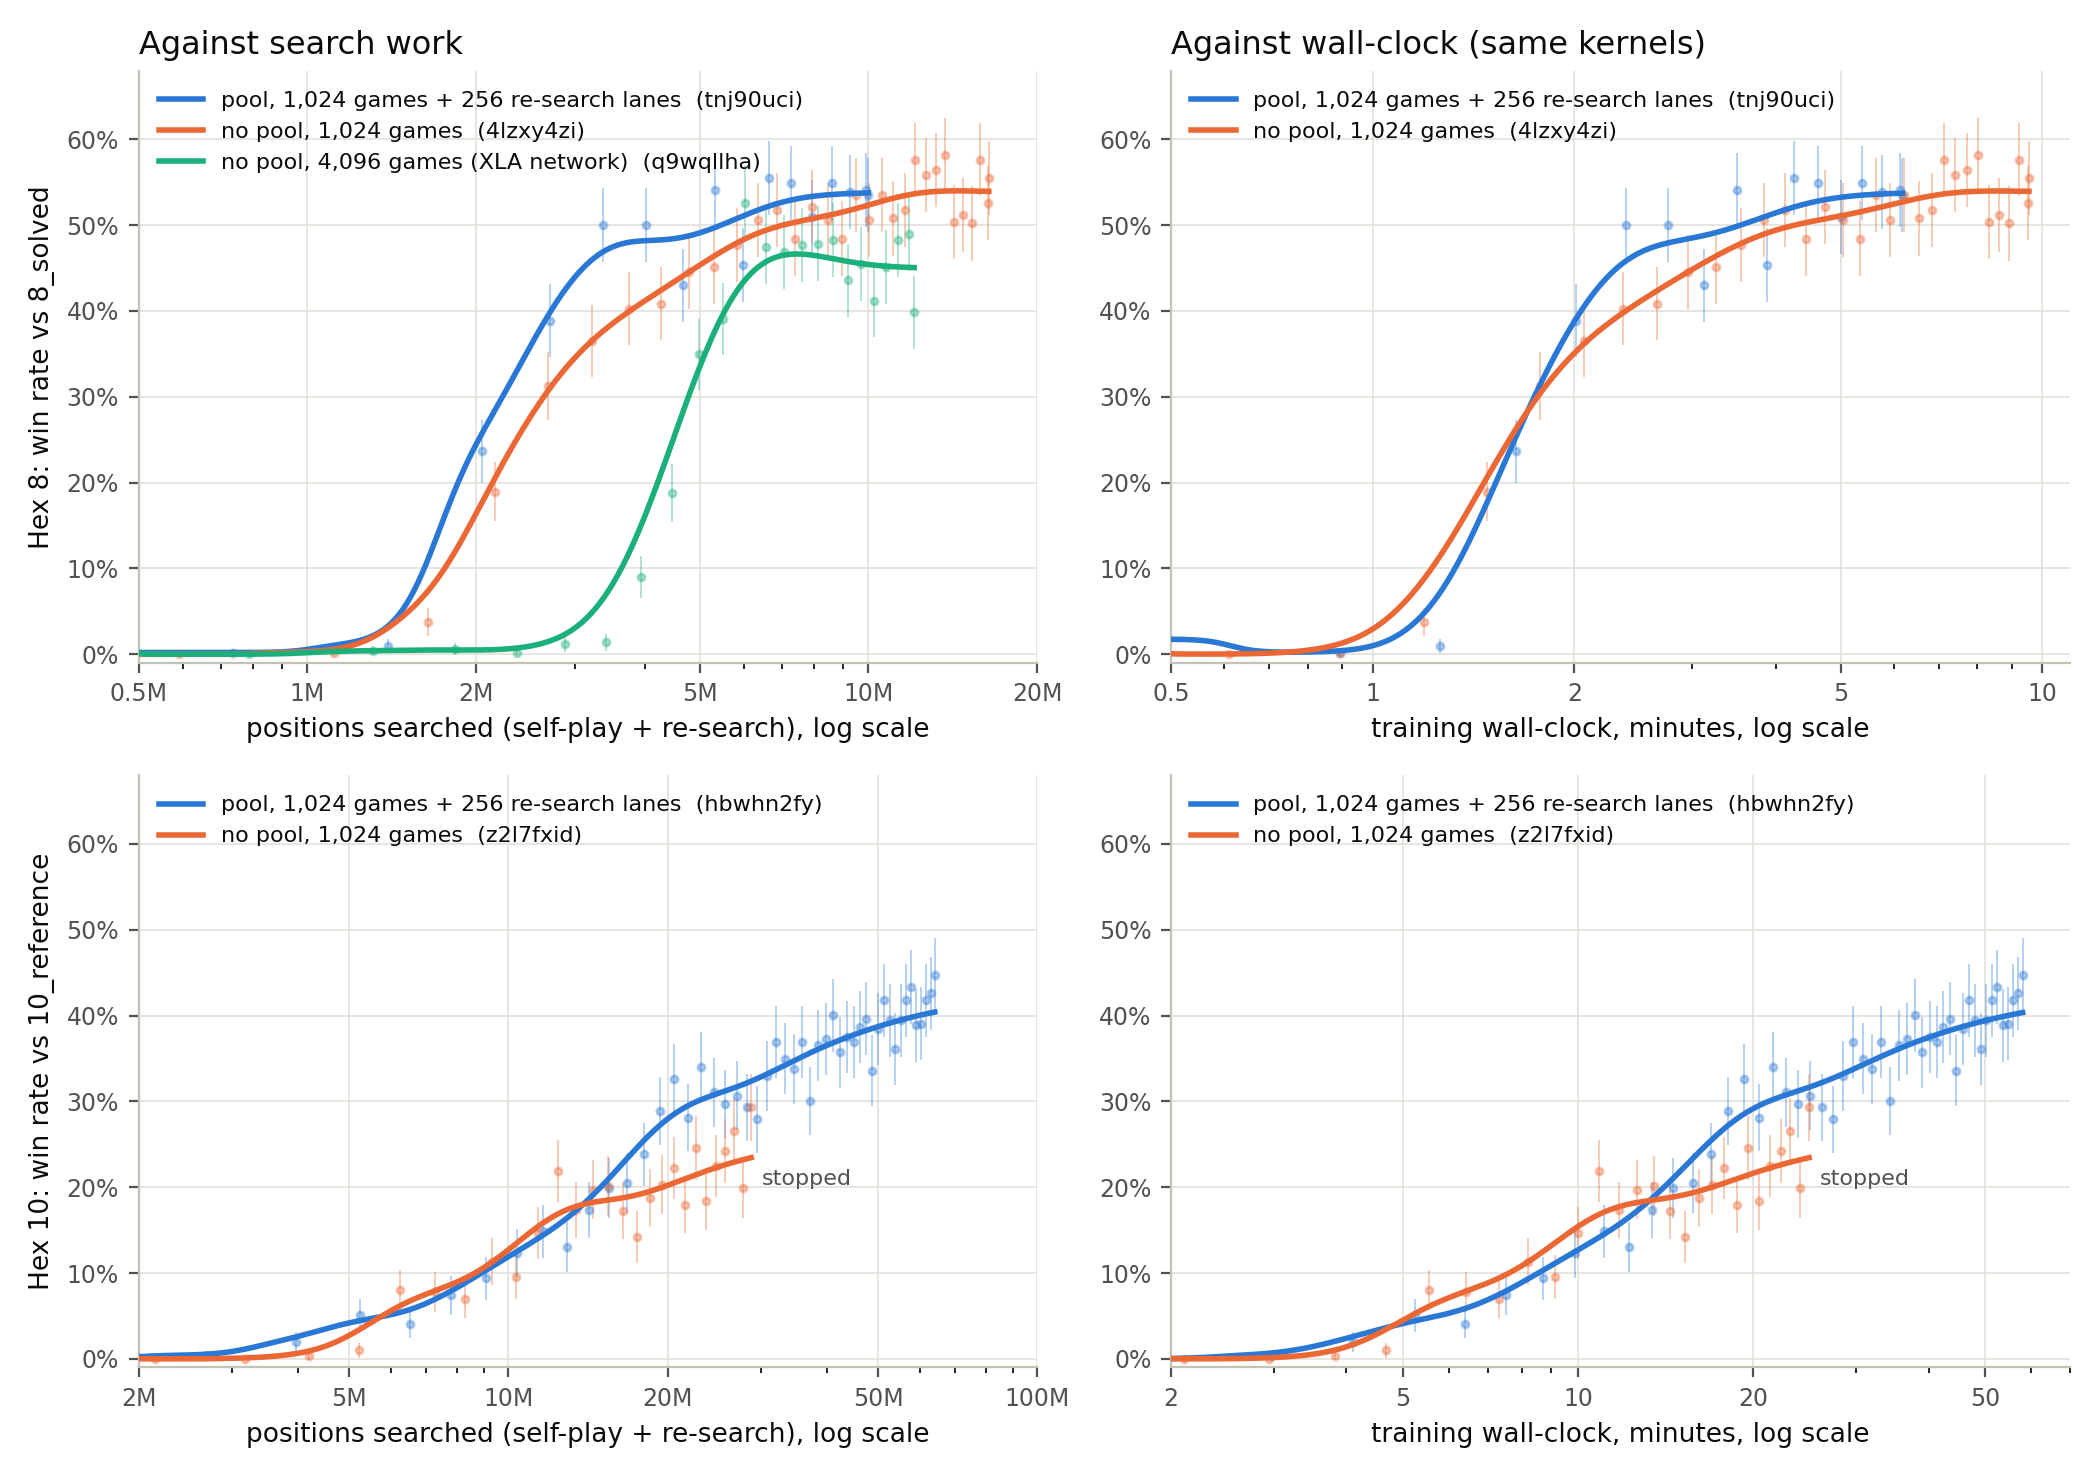
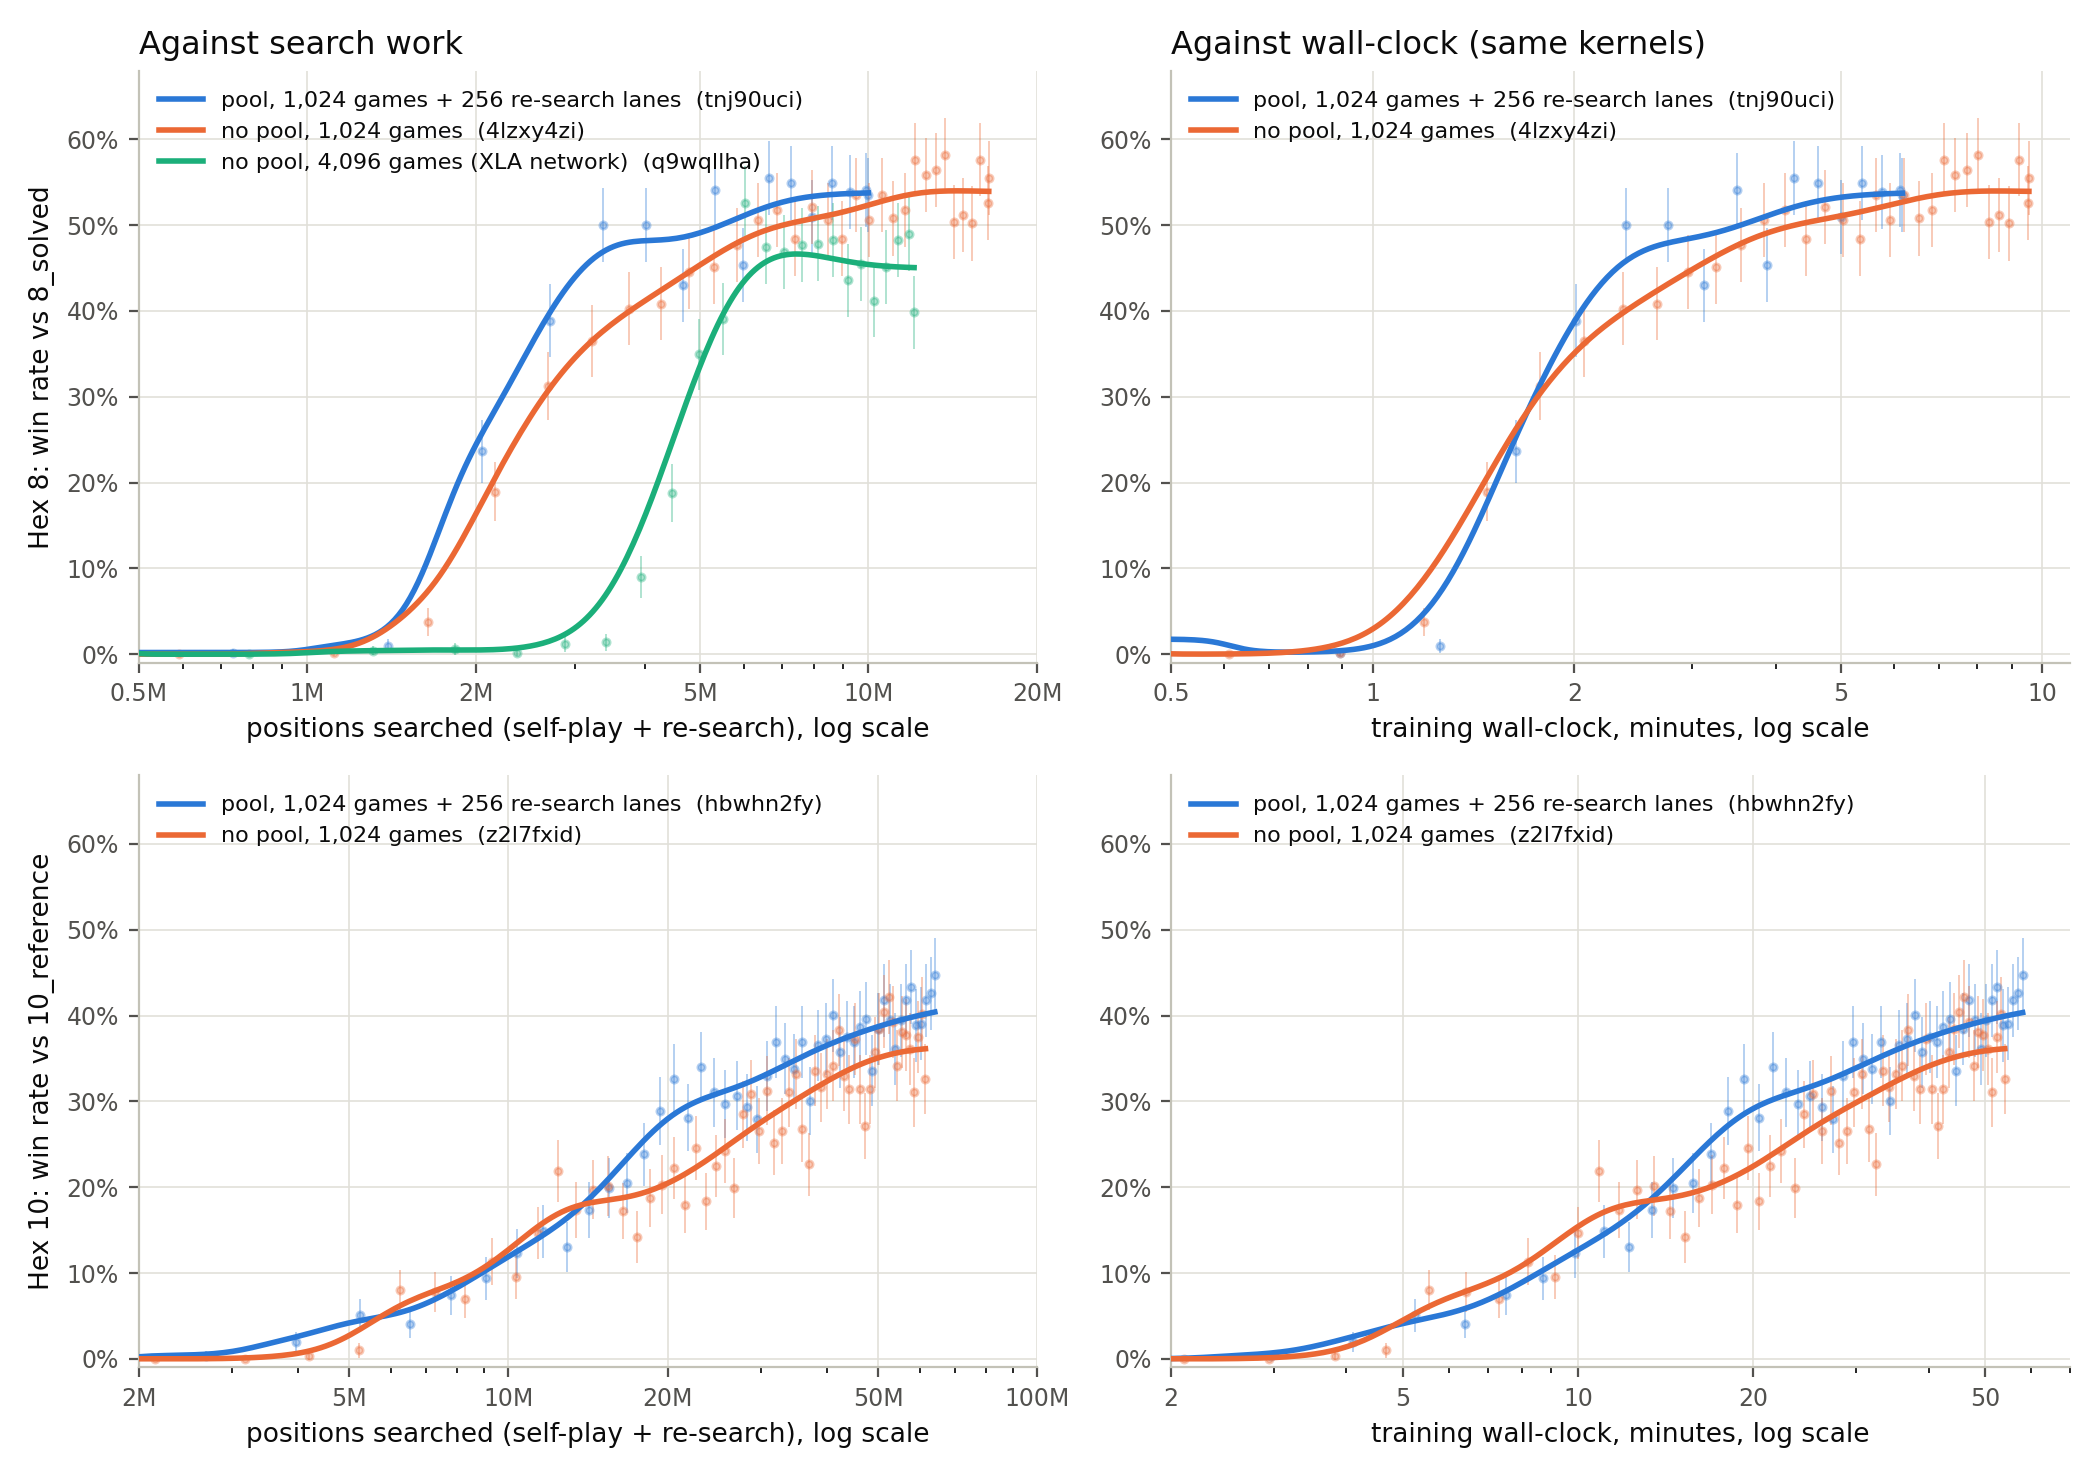
Pool vs control: the full Hex 10 control run
The Hex 10 no-pool control was resumed from its iteration-250 checkpoint
and run to 600 iterations (61M positions). The pool stays ahead from 15M
positions on and reaches 30% about 1.4-1.5x sooner.

Changed region(s): [[0.3095, 0.6527, 0.4643, 0.8081], [0.8048, 0.6527, 0.9595, 0.8081]]

diff --git a/scripts/plot_pool_controls.py b/scripts/plot_pool_controls.py
@@ -5,7 +5,8 @@ outcome losses off, 1,024 self-play games per iteration. The pool runs add 256
 re-search lanes, which count as searched positions.
 
   Hex 8   tnj90uci  pool          4lzxy4zi  no pool
-  Hex 10  hbwhn2fy  pool          z2l7fxid  no pool (stopped at 25 minutes)
+  Hex 10  hbwhn2fy  pool          z2l7fxid  no pool (stopped at iteration 287, resumed from its
+                                  iteration-250 checkpoint as pxwf6251)
 
 Hex 8 also shows q9wqllha (no pool, 4,096 games per iteration, XLA network) on
 the positions axis only: it is the run the pool was first compared with, and
@@ -46,7 +47,7 @@ PANELS = [
     ]),
     ("Hex 10", "vs 10_reference", {"positions": (2e6, 1e8), "minutes": (2, 70)}, [
         ("hbwhn2fy", "pool, 1,024 games + 256 re-search lanes", H / "h10/pool_int8_h10.jsonl", POOL, True),
-        ("z2l7fxid", "no pool, 1,024 games", H / "h10/nopool_int8_h10_1024.jsonl", CTRL, True),
+        ("z2l7fxid", "no pool, 1,024 games", H / "h10/nopool_int8_h10_1024.merged.jsonl", CTRL, True),
     ]),
 ]
 LEVELS = (0.1, 0.2, 0.3, 0.4, 0.5)
@@ -107,8 +108,6 @@ def main(out: str) -> None:
                 ax.errorbar(x, y, yerr=err, fmt="o", ms=2.6, color=color, alpha=0.35, elinewidth=0.7, capsize=0, zorder=2)
                 sx, sy = smooth(x, y)
                 ax.plot(sx, sy, color=color, lw=2, zorder=3, label=f"{label}  ({run})")
-                if run == "z2l7fxid":
-                    ax.annotate("stopped", xy=(sx[-1], sy[-1]), xytext=(4, -10), textcoords="offset points", fontsize=8, color=INK2)
                 crossings.setdefault((board, run, label), {})[key] = [first_crossing(sx, sy, lv) for lv in LEVELS]
             ax.set_xlim(*limits[key])
             if key == "positions":
